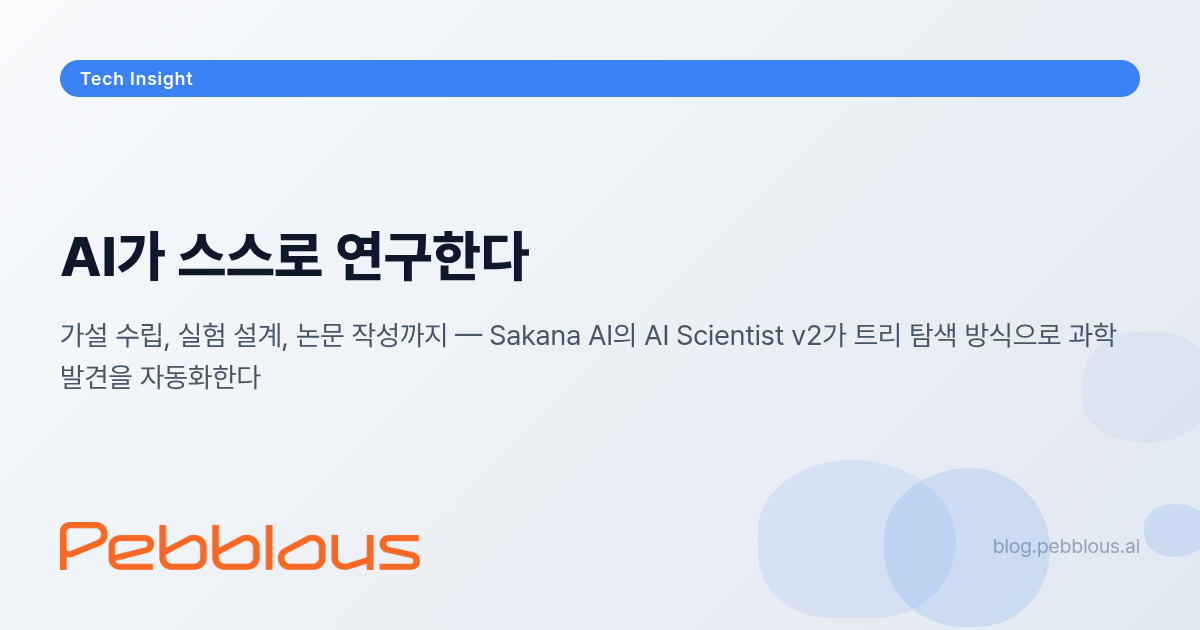
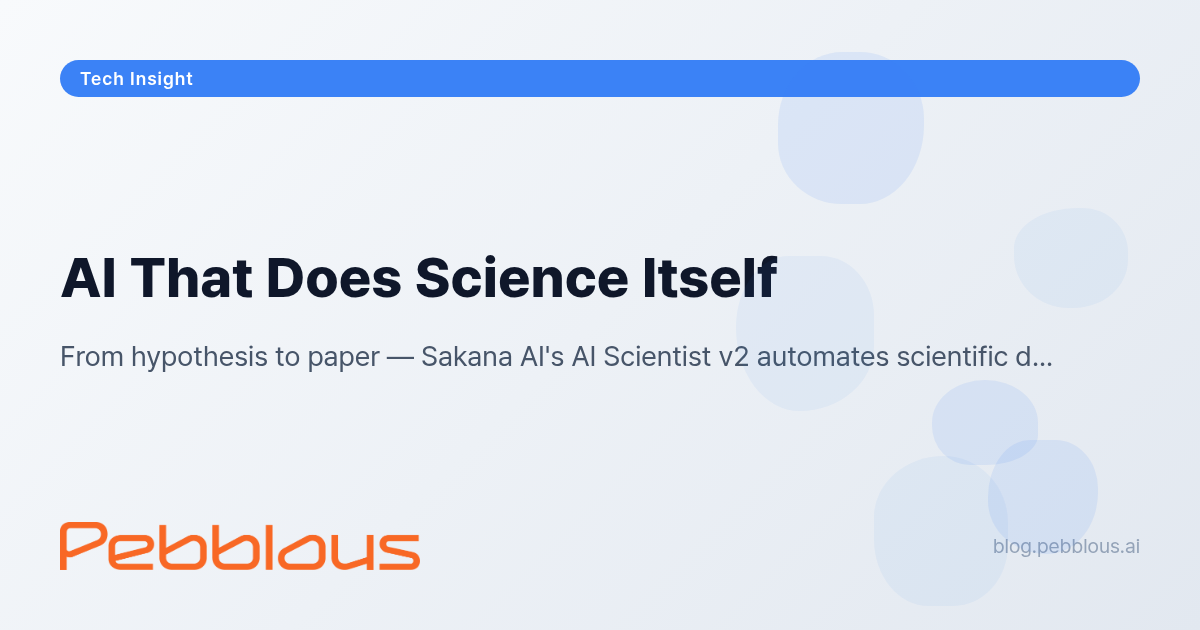
fix(ai-scientist-v2): 사실 오류 정정 + 부제목/stat카드/OG 이미지 업데이트 (KO+EN)
- Nature 게재 오류 정정: AI가 쓴 논문이 아닌 인간 저자(Lu, C. et al.)의 논문임을 명시
- ICLR 2025 워크숍 피어리뷰(후 자진 철회) 정확히 표기
- KO/EN 부제목, stat카드 일치 업데이트
- OG 이미지 재생성 (KO+EN)

diff --git a/project/AgenticAI/ai-scientist-v2/ko/index.html b/project/AgenticAI/ai-scientist-v2/ko/index.html
@@ -161,7 +161,7 @@
                         </div>
                         <div class="stat-card text-center">
                             <div class="text-3xl font-bold accent-text mb-1">1/3</div>
-                            <div class="stat-label">ICLR 2025<br>피어리뷰 통과</div>
+                            <div class="stat-label">ICLR 2025<br>워크숍 피어리뷰 통과</div>
                         </div>
                         <div class="stat-card text-center">
                             <div class="text-3xl font-bold accent-text mb-1">$20</div>
@@ -578,7 +578,7 @@
     document.addEventListener('DOMContentLoaded', async function() {
         const config = {
             mainTitle: "스스로 연구하고 논문쓰는 AI",
-            subtitle: "AI Scientist v2, 트리 탐색으로 가설부터 논문까지 자율 수행",
+            subtitle: "AI Scientist v2, 가설부터 논문까지 자율 수행 — ICLR 2025 워크숍 최초 피어리뷰 통과(후 자진 철회)",
             pageTitle: "스스로 연구하고 논문쓰는 AI — AI Scientist v2 분석 | 페블러스",
             publishDate: "2026-03-28",
             publisher: "(주)페블러스 데이터 커뮤니케이션팀",

diff --git a/project/AgenticAI/ai-scientist-v2/en/index.html b/project/AgenticAI/ai-scientist-v2/en/index.html
@@ -160,7 +160,7 @@
                         </div>
                         <div class="stat-card text-center">
                             <div class="text-3xl font-bold accent-text mb-1">1/3</div>
-                            <div class="stat-label">ICLR 2025<br>peer-review pass</div>
+                            <div class="stat-label">ICLR 2025 workshop<br>peer-review pass</div>
                         </div>
                         <div class="stat-card text-center">
                             <div class="text-3xl font-bold accent-text mb-1">$20</div>
@@ -503,7 +503,7 @@
     document.addEventListener('DOMContentLoaded', async function() {
         const config = {
             mainTitle: "The AI That Reads Papers and Runs Its Own Experiments",
-            subtitle: "AI Scientist v2: Tree Search from Hypothesis to Paper, Autonomously",
+            subtitle: "AI Scientist v2: From Hypothesis to Paper, Autonomously — First AI-Generated Paper to Pass ICLR 2025 Workshop Peer Review (Then Withdrawn)",
             pageTitle: "AI That Does Science Itself — AI Scientist v2 Analysis | Pebblous",
             publishDate: "2026-03-28",
             publisher: "Pebblous Data Communication Team",
